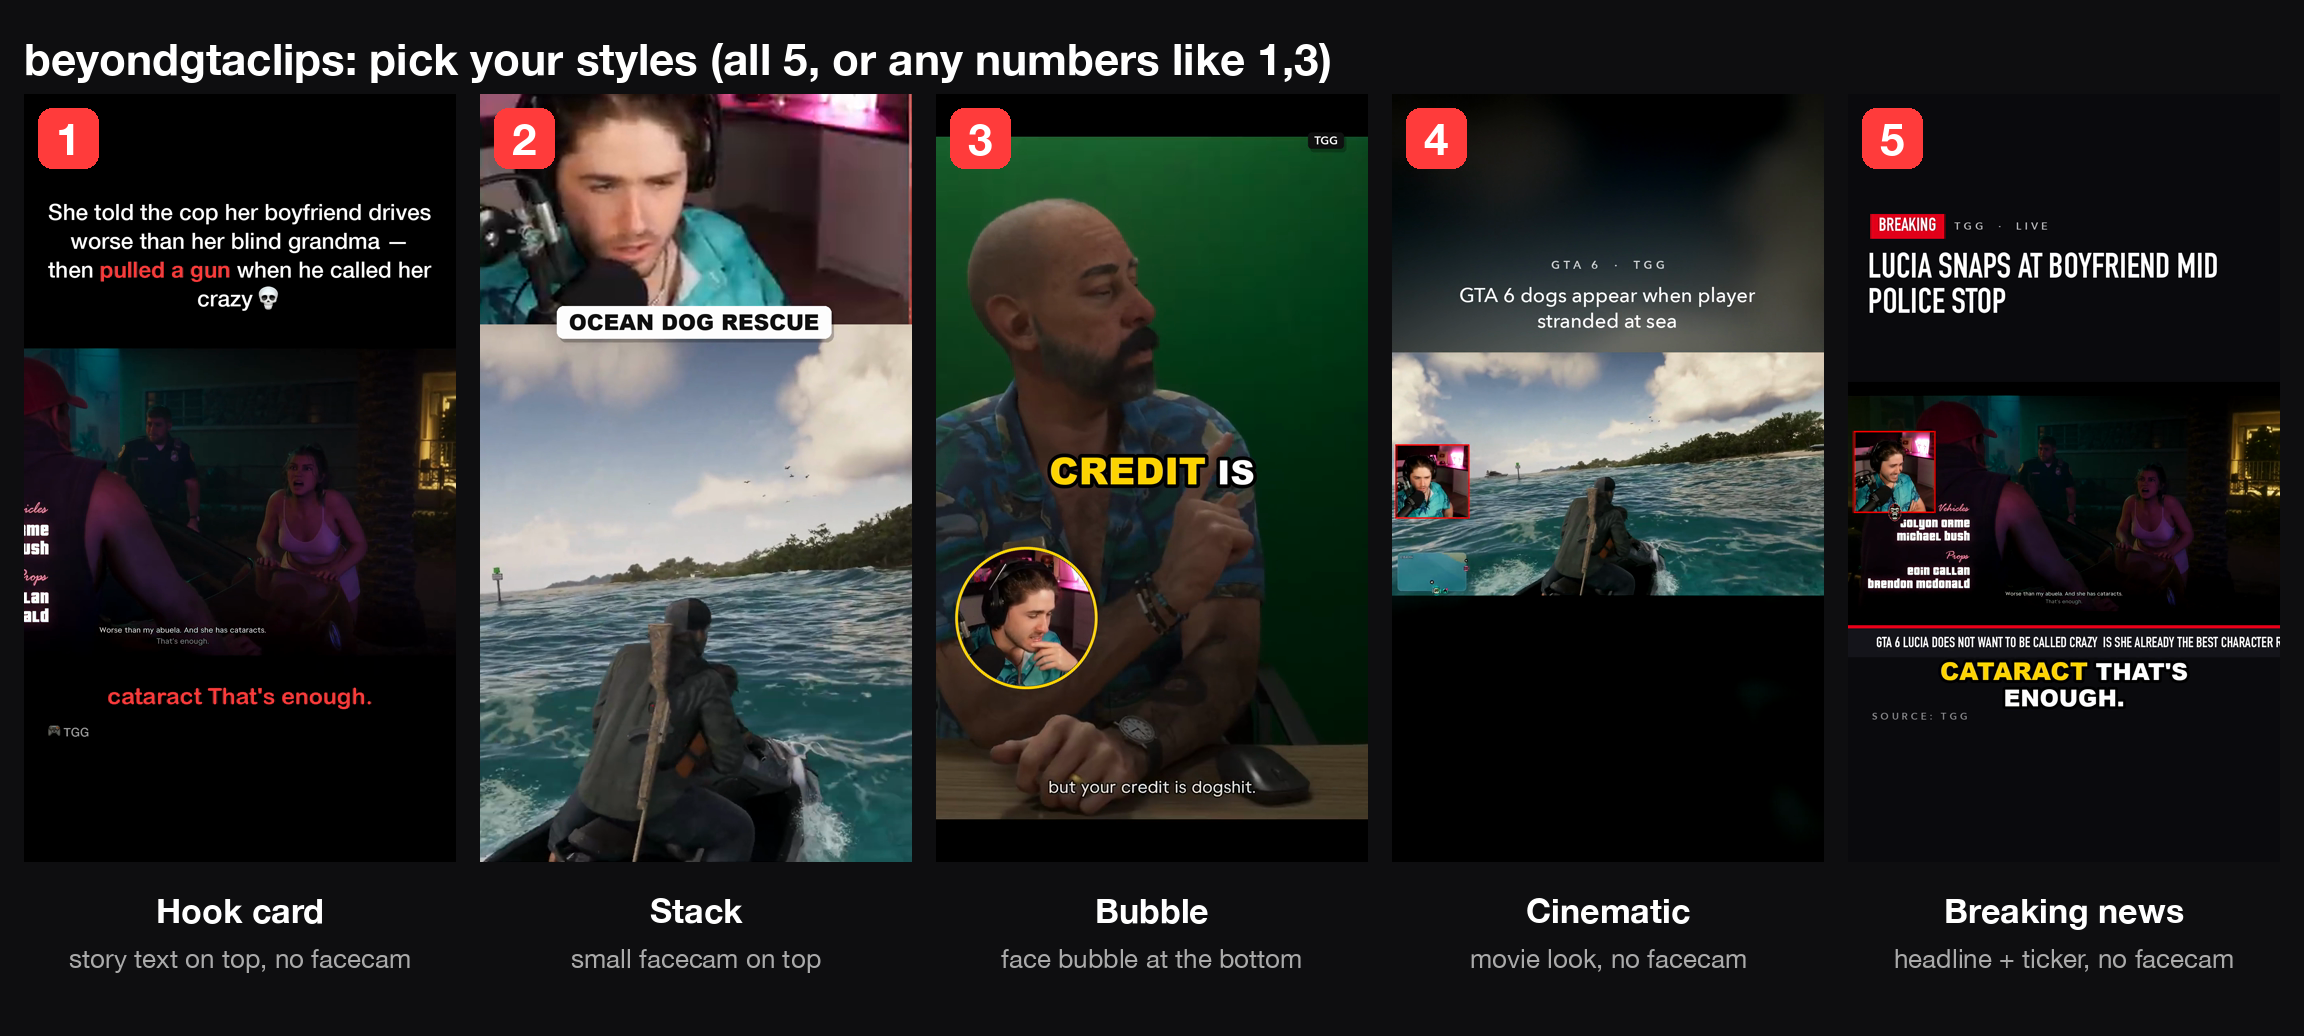
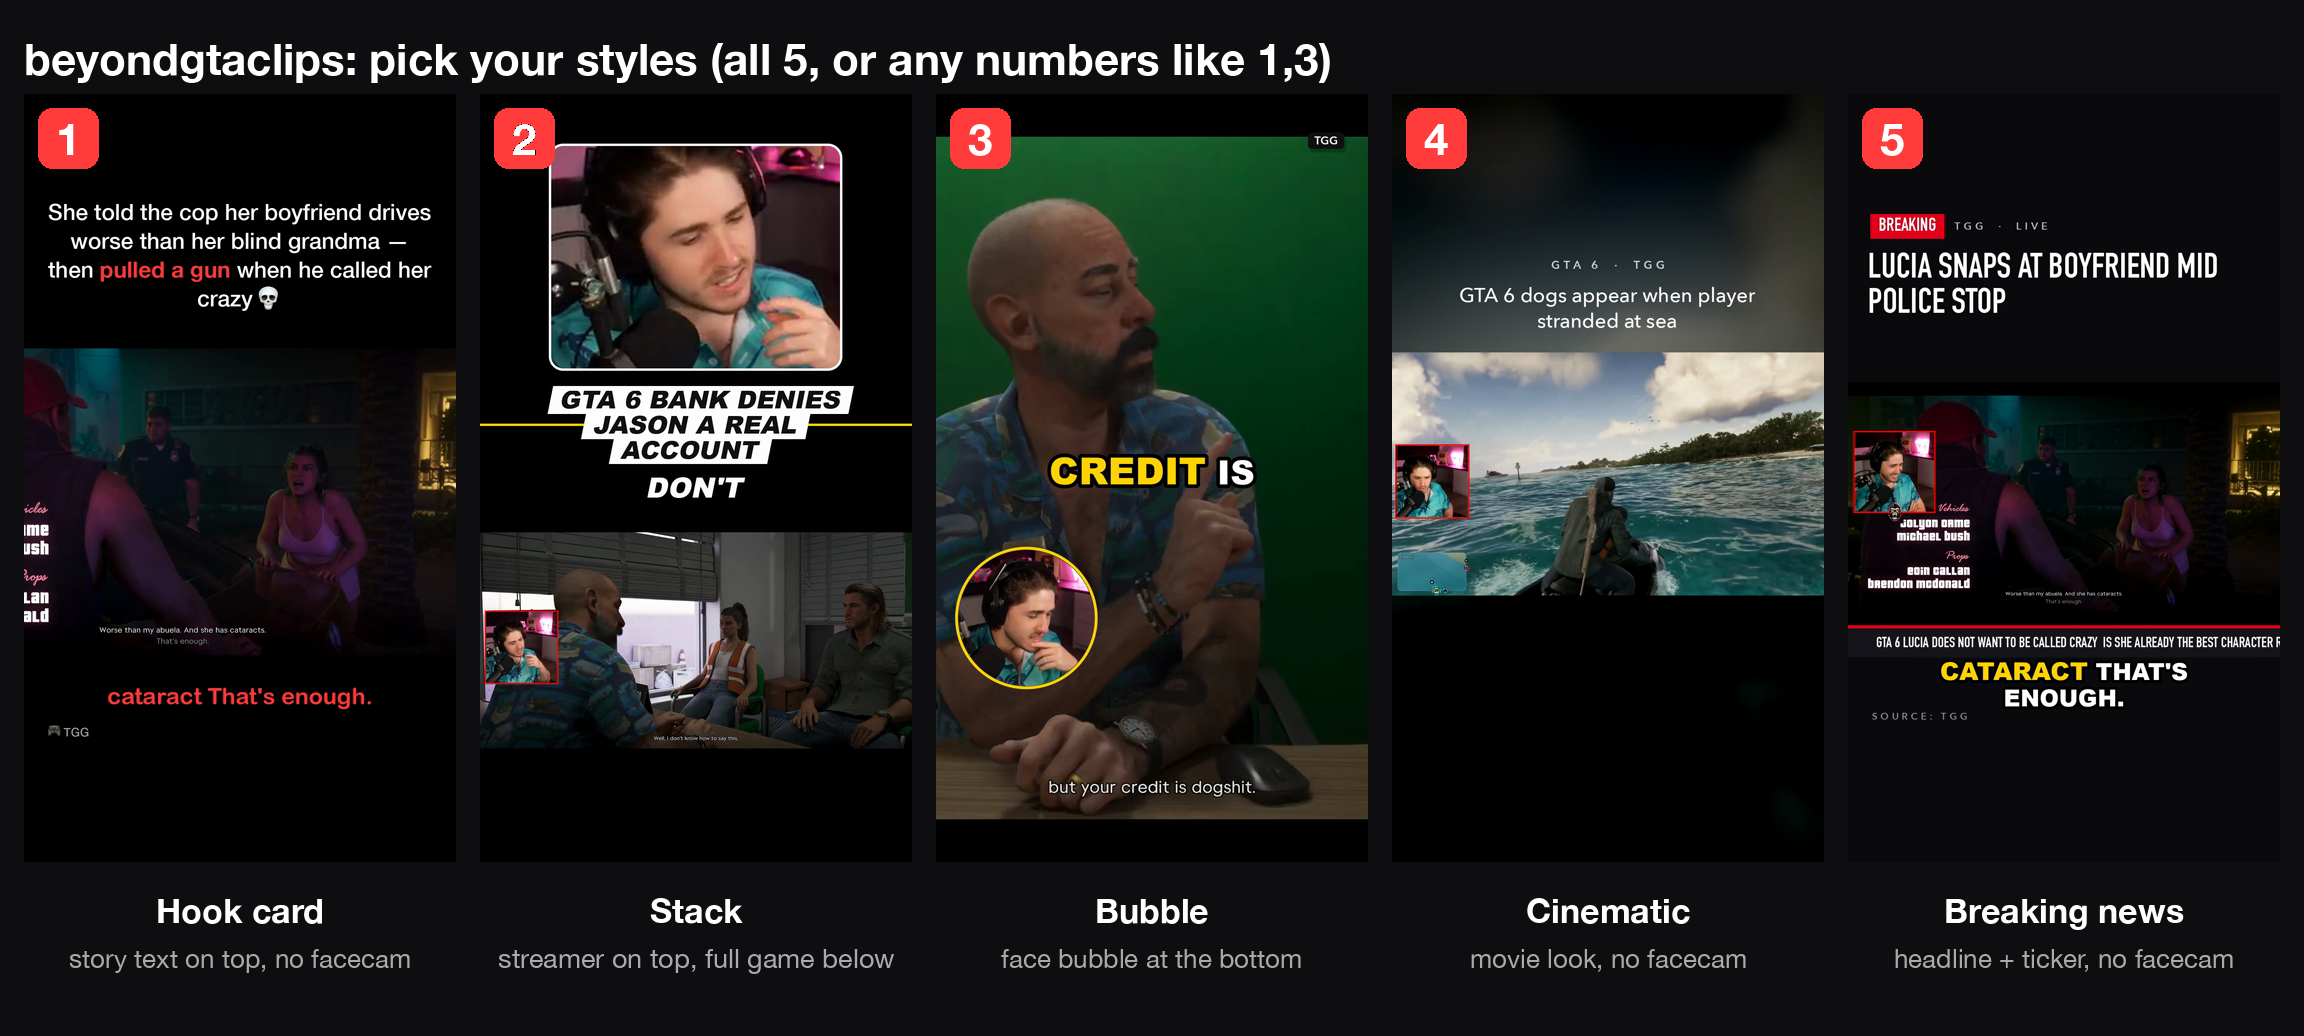
Stack style redesign: framed streamer on top, hook on a divider line, full 16:9 game below

Changed region(s): [[0.1875, 0.0927, 0.4062, 0.834], [0.2188, 0.8958, 0.375, 0.9575]]

diff --git a/scripts/bgt/templates.py b/scripts/bgt/templates.py
@@ -6,7 +6,8 @@ with ffmpeg + Pillow graphics. Clean rules shared by all of them:
 
   hookcard   story sentence on black, *accent words* in bold red, gameplay 5:4 in the middle,
              red captions on the clip, empty band below (the memezar / viral reel look)
-  stack      facecam on top, gameplay below, title sticker on the join, pop captions,
+  stack      facecam on top, gameplay below, one big leaning caption word under the divide,
+             title on black leaning boxes (the split-screen viral look),
              punch-in zooms on the loudest seconds
   bubble     full-screen gameplay, the streamer's face in a small round bubble at the bottom,
              big 2-word pop captions, title sticker for the first 3 seconds, punch-ins
@@ -150,39 +151,76 @@ def hookcard(g, ctx):
 
 
 def stack(g, ctx):
+    """Streamer in a framed box on top, a divider line carrying the hook title, one big
+    caption word, then the whole 16:9 stream screen below (nothing cropped or stretched)."""
     info, pick, accent, cfg = ctx["info"], ctx["pick"], ctx["accent"], ctx["cfg"]
-    cam = ctx["cam"]
-    top = even(H * cfg["cam_share"])
-    low = H - top
     sw, sh = info["width"], info["height"]
-    x, y, w, h = cam
-    aim = W / top
-    cw, ch = (h * aim, h) if w / h > aim else (w, w / aim)
-    face = ctx.get("face")
-    if face:                                   # centre on the face, not on the whole overlay
-        fcx, fcy = face[0] + face[2] / 2, face[1] + face[3] / 2
-        cx = min(max(fcx - cw / 2, x), x + w - cw)
-        cy = min(max(fcy - ch * 0.45, y), y + h - ch)
-    else:
-        cx, cy = x + (w - cw) / 2, y + (h - ch) / 2
-    cx = min(max(cx, 0), sw - cw)
-    cy = min(max(cy, 0), sh - ch)
-    gw, gh, gx, gy = window(info, W / low, cam)
-    c1, g1, out = g.label(), g.label(), g.label()
-    g.add(f"[src_cam]crop={even(cw)}:{even(ch)}:{even(cx)}:{even(cy)},scale={W}:{top}:flags=lanczos,setsar=1[{c1}]")
-    g.add(f"[src_main]crop={gw}:{gh}:{gx}:{gy},scale={W}:{low}:flags=lanczos,setsar=1[{g1}]")
-    g1 = punch(g, g1, W, low, ctx["punches"])
-    g.add(f"[{c1}][{g1}]vstack=inputs=2,format=yuv420p[{out}]")
-    g.last = out
-    title = (pick.get("title") or "").upper()
+    game_h = even(W * 9 / 16)
+    game_y = even(H - 250 - game_h)                 # above TikTok/Reels' bottom caption block
+    cap_y = game_y - 74                             # caption word just above the game
+    background(g, "000000")
+
+    title = stack_title(pick)
+    slab = None
     if title:
-        sticker = art.pill(title, 54, bg="FFFFFF", fg="111111", max_width=W - 160)
-        g.place(sticker, "title", "center", top - sticker.height // 2)
+        size = 74 if len(title) <= 26 else 62
+        slab = art.slab(title, size, W - 140, fg="111111", bg="FFFFFF")
+    slab_h = slab.height if slab else 0
+    line_y = even(cap_y - 62 - slab_h / 2) if slab else cap_y - 70
+
+    # the streamer: their own camera box, kept at its own shape, as big as fits
+    x, y, w, h = ctx["cam"]
+    inset = 0.03                                    # stay inside the overlay's coloured border
+    x, y, w, h = x + w * inset, y + h * inset, w * (1 - 2 * inset), h * (1 - 2 * inset)
+    x, y = max(0.0, x), max(0.0, y)
+    w, h = min(w, sw - x), min(h, sh - y)
+    area_top, area_bottom = 130, line_y - slab_h / 2 - 44
+    want = min(980 / (area_bottom - area_top), 1.3)  # a squarish cam looks small: trim
+    if w / h < want:                                  # headroom/desk to a wider shape
+        nh = w / want
+        face = ctx.get("face")
+        mid = face[1] + face[3] * 0.6 if face else y + h / 2
+        y = min(max(mid - nh / 2, y), y + h - nh)
+        h = nh
+    fit = min(980 / w, (area_bottom - area_top) / h)
+    fw, fh = even(w * fit), even(h * fit)
+    fx, fy = even((W - fw) / 2), even(area_top + (area_bottom - area_top - fh) / 2)
+    border, radius = 6, 30
+    g.place(art.round_box(fw + 2 * border, fh + 2 * border, radius + border, "FFFFFF"), "frame",
+            fx - border, fy - border)
+    cam_v, mask, cam_m = g.label(), g.label(), g.label()
+    mask_in = g.image(art.round_mask(fw, fh, radius), "cam_mask")
+    g.add(f"[src_cam]crop={even(w)}:{even(h)}:{even(x)}:{even(y)},scale={fw}:{fh}:flags=lanczos,"
+          f"setsar=1,format=rgba[{cam_v}]")
+    g.add(f"[{mask_in}]format=gray,scale={fw}:{fh}[{mask}]")
+    g.add(f"[{cam_v}][{mask}]alphamerge[{cam_m}]")
+    g.over(cam_m, fx, fy)
+
+    # the whole stream screen, edge to edge
+    gw, gh, gx, gy = window(info, 16 / 9)
+    game = g.label()
+    g.add(f"[src_main]crop={gw}:{gh}:{gx}:{gy},scale={W}:{game_h}:flags=lanczos,setsar=1[{game}]")
+    game = punch(g, game, W, game_h, ctx["punches"])
+    g.over(game, 0, game_y)
+
+    # divider line with the hook title riding on it
+    g.place(art.bar(W, 6, accent), "divider", 0, line_y - 3)
+    if slab:
+        g.place(slab, "title", "center", line_y - slab_h // 2)
+    g.captions(ctx["words"], {"font": "heavy", "size": 70, "color": "FFFFFF", "active": None,
+                              "stroke": 3, "shadow": True, "upper": True, "words": 1, "lean": 0.2},
+               cap_y)
     if cfg.get("show_creator", True) and ctx.get("creator"):
         g.place(art.pill(ctx["creator"], 28, bg="111111", fg="FFFFFF", kind="label"), "chip", 40, 70)
-    g.captions(ctx["words"], {"font": "heavy", "size": 78, "color": "FFFFFF", "active": accent,
-                              "pop": 1.12, "stroke": 8, "upper": True, "words": 3},
-               int(H * 0.70))
+
+
+def stack_title(pick):
+    """Short statement for the split-screen title: the headline when it is short, else the title."""
+    clean = lambda s: " ".join(art.re.sub(r"[*#]", "", s or "").split())
+    head, title = clean(pick.get("headline")), clean(pick.get("title"))
+    if head and len(head) <= 40 and len(head.split()) <= 8:
+        return head
+    return title or head
 
 
 def bubble(g, ctx):

diff --git a/scripts/bgt/art.py b/scripts/bgt/art.py
@@ -184,6 +184,55 @@ def rich_block(words, size, width, regular="clean", accent_font="clean_bold", co
     return img
 
 
+def skew(img, k=0.2):
+    """Lean an image to the right like italics (top moves right by k * height)."""
+    if img is None or k == 0:
+        return img
+    h = img.height
+    extra = int(math.ceil(abs(k) * h))
+    return img.transform((img.width + extra, h), Image.AFFINE, (1, k, -k * h, 0, 1, 0),
+                         resample=Image.BICUBIC)
+
+
+def slab(text, size, max_width, kind="heavy", fg="FFFFFF", bg="000000", lean=0.2,
+         pad=(0.42, 0.16), overlap=0.08):
+    """Viral split-screen title: each line on its own black box, leaning like italics
+    (the 'AIRPORTS IN GTA 6 ARE INSANE' look). Returns a transparent image."""
+    f = font(kind, size)
+    words = text.upper().split()
+    if not words:
+        return None
+    px, py = int(size * pad[0]), int(size * pad[1])
+    limit = max_width - 2 * px - int(lean * size * 2)
+    lines, cur = [], ""
+    for w in words:
+        trial = f"{cur} {w}".strip()
+        if cur and f.getlength(trial) > limit:
+            lines.append(cur)
+            cur = w
+        else:
+            cur = trial
+    lines.append(cur)
+    asc, desc = f.getmetrics()
+    cap = f.getbbox("H")
+    text_h = cap[3] - cap[1]
+    box_h = text_h + 2 * py + int(size * 0.12)
+    step = int(box_h * (1 - overlap))
+    widths = [int(f.getlength(l)) + 2 * px for l in lines]
+    w = max(widths)
+    img = Image.new("RGBA", (w, step * (len(lines) - 1) + box_h), (0, 0, 0, 0))
+    d = ImageDraw.Draw(img)
+    for i, (line, lw) in enumerate(zip(lines, widths)):
+        x0 = (w - lw) // 2
+        y0 = i * step
+        d.rectangle((x0, y0, x0 + lw, y0 + box_h), fill=rgba(bg))
+    for i, (line, lw) in enumerate(zip(lines, widths)):
+        x0 = (w - lw) // 2
+        y0 = i * step
+        d.text((x0 + px, y0 + (box_h - text_h) / 2 - cap[1]), line, font=f, fill=rgba(fg))
+    return skew(img, lean)
+
+
 def save(img, path):
     path = Path(path)
     img.save(path)
@@ -252,6 +301,18 @@ def circle_mask(d):
     big = Image.new("L", (d * 4, d * 4), 0)
     ImageDraw.Draw(big).ellipse((0, 0, d * 4 - 1, d * 4 - 1), fill=255)
     return big.resize((d, d), Image.LANCZOS)
+
+
+def round_mask(w, h, r):
+    big = Image.new("L", (w * 3, h * 3), 0)
+    ImageDraw.Draw(big).rounded_rectangle((0, 0, w * 3 - 1, h * 3 - 1), radius=r * 3, fill=255)
+    return big.resize((w, h), Image.LANCZOS)
+
+
+def round_box(w, h, r, color):
+    big = Image.new("RGBA", (w * 3, h * 3), (0, 0, 0, 0))
+    ImageDraw.Draw(big).rounded_rectangle((0, 0, w * 3 - 1, h * 3 - 1), radius=r * 3, fill=rgba(color))
+    return big.resize((w, h), Image.LANCZOS)
 
 
 def ring(d, width, color):
@@ -340,6 +401,10 @@ def captions(words, length, style, folder, width):
                                  stroke=style.get("stroke", 0), shadow=style.get("shadow", False),
                                  scale={active: style.get("pop", 1.0)} if active is not None else None,
                                  upper=style.get("upper", False), line_gap=1.15)
+                if style.get("lean"):
+                    img = skew(img.crop(img.getbbox() or (0, 0, img.width, img.height)), style["lean"])
+                    if img.width > width:
+                        img = img.crop((0, 0, width, img.height))
                 canvas = Image.new("RGBA", (width, band), (0, 0, 0, 0))
                 y = max(0, (band - img.height) // 2)
                 canvas.alpha_composite(img.crop((0, 0, img.width, min(img.height, band))),

diff --git a/scripts/bgt/cli.py b/scripts/bgt/cli.py
@@ -97,7 +97,7 @@ def styles():
     img = Path(__file__).resolve().parents[2] / "assets" / "styles.png"
     print(f"\n  Screenshot of all five styles: {img}\n")
     rows = [("1", "hookcard", "Hook card", "story text on top, action words in red, no facecam"),
-            ("2", "stack", "Stack", "small facecam on top, gameplay below"),
+            ("2", "stack", "Stack", "streamer on top, full game below"),
             ("3", "bubble", "Bubble", "full-screen gameplay, face bubble at the bottom"),
             ("4", "cinematic", "Cinematic", "movie look, slow push-in, no facecam"),
             ("5", "news", "Breaking news", "headline and red ticker, no facecam")]

diff --git a/scripts/bgt/settings.py b/scripts/bgt/settings.py
@@ -57,7 +57,7 @@ DEFAULTS = {
     "accent": None,                  # None = each template's own accent, or a hex like "FF2D2D"
     "width": 1080,
     "height": 1920,
-    "cam_share": 0.30,               # stack: share of the height given to the facecam
+    "cam_share": 0.32,               # stack: share of the height given to the facecam
     "big_face": 0.13,                # face wider than this share of the frame = talking head
     "punch_ins": True,               # quick zoom on the loudest seconds (bubble, stack)
     "sfx": True,                     # a soft whoosh on the hook, made locally (no files)

diff --git a/SKILL.md b/SKILL.md
@@ -101,11 +101,11 @@ Three styles with text on top and no facecam panel:
 | `cinematic` (4) | blurred backdrop, wide gameplay with a slow push-in, letter-spaced label and headline on top, quiet subtitles, fades | beautiful or emotional scenes, slow stories |
 | `news` (5) | BREAKING tag and condensed headline on top, wide gameplay, scrolling red ticker | secrets, hidden features, big discoveries |
 
-Two styles with a small facecam:
+Two styles with the streamer's face:
 
 | Style | Looks like | Best for |
 |---|---|---|
-| `stack` (2) | small facecam strip on top (30%), gameplay below, title sticker on the join, yellow pop captions, punch-in zooms | reactions where the streamer's face adds to the moment |
+| `stack` (2) | the streamer in a white-framed box on top (never stretched), a yellow divider line carrying the title on white leaning boxes, one big leaning caption word, then the **whole 16:9 stream screen** below | reactions where the streamer's face adds to the moment |
 | `bubble` (3) | full-screen gameplay, the streamer's face in a small round bubble at the bottom, big 2-word pop captions | fast hype moments |
 
 Every style keeps text out of the TikTok/Reels button zones and works in Instagram's 4:5 feed crop.

diff --git a/README.md b/README.md
@@ -159,7 +159,7 @@ At the typical **$1 per 1,000 views** campaign rate:
 | # | Style | What it looks like | Best for |
 |---|---|---|---|
 | **1** | **Hook card** ⭐ default | Story sentence on top with the action words in **red**, gameplay in the middle | Shocking moments, NPC chaos, discoveries |
-| 2 | **Stack** | Small streamer cam on top, gameplay below, pop captions, punch-in zooms | Big reactions |
+| 2 | **Stack** | Streamer in a framed box on top, hook text on a divider line, then the **full game screen** below | Big reactions |
 | 3 | **Bubble** | Full-screen gameplay, streamer's face in a circle at the bottom | Fast hype moments |
 | 4 | **Cinematic** | Movie look, slow zoom, quiet subtitles | Beautiful or emotional scenes |
 | 5 | **Breaking news** | BREAKING headline and a red ticker | Secrets, hidden features, big finds |

diff --git a/docs/CHANGES.md b/docs/CHANGES.md
@@ -51,6 +51,9 @@ Built by Claude on 19 Nov 2026 from MiniMax's investigation (`OVERVIEW.md`, `DEV
   captions could not work on this Mac): rich hook text with colour emoji, caption frames as an
   ffconcat image sequence, stickers, ticker, bubble mask.
 - Five templates: hookcard, stack, bubble, cinematic, news (`scripts/bgt/templates.py`).
+- Stack redesigned (2026-11-19, from a viral split-screen reel): streamer in a framed box on
+  top at its own shape (no stretching), divider line with the title on leaning boxes, one big
+  leaning caption word, the whole 16:9 stream screen below.
 - Punch-in zooms on volume spikes, synthesised whoosh + pop, cinematic push-in and fades,
   platform safe zones, creator credit in every template.
 - `--template all` renders every style per clip; `remake` re-renders with a new hook, title,

diff --git a/GUIDE.md b/GUIDE.md
@@ -67,7 +67,7 @@ The assistant asks:
 | # | Style | Looks like |
 |---|---|---|
 | 1 | **Hook card** (default) | Story sentence on top with the action words in red, gameplay in the middle, captions under it |
-| 2 | **Stack** | Small streamer camera on top, gameplay below, pop captions, quick zooms |
+| 2 | **Stack** | Streamer in a framed box on top, a line with the hook text, the caption, then the full game screen below |
 | 3 | **Bubble** | Full-screen gameplay, the streamer's face in a circle at the bottom |
 | 4 | **Cinematic** | Movie look: blurred backdrop, slow zoom, quiet subtitles |
 | 5 | **Breaking news** | BREAKING headline, gameplay, red scrolling ticker |
